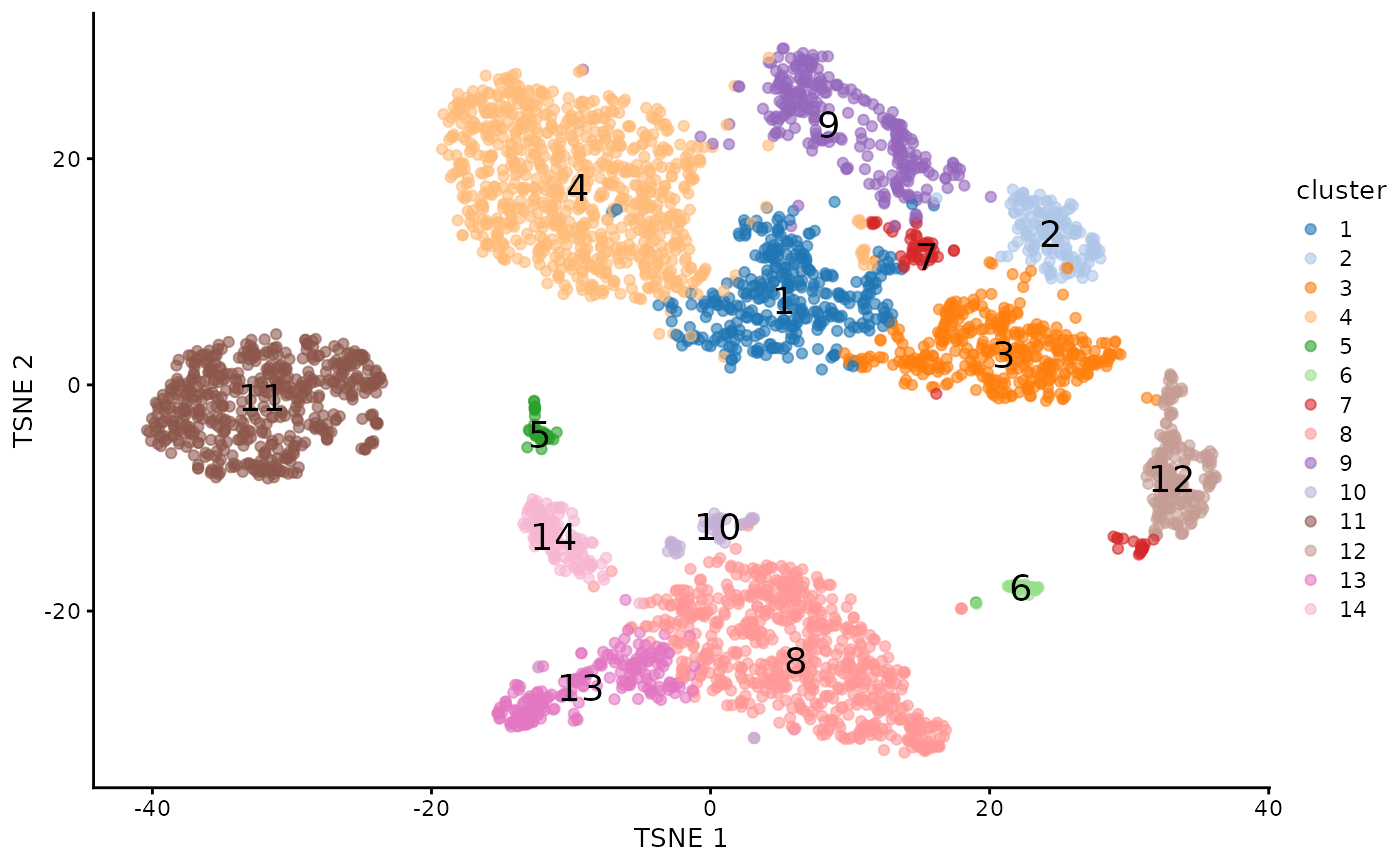
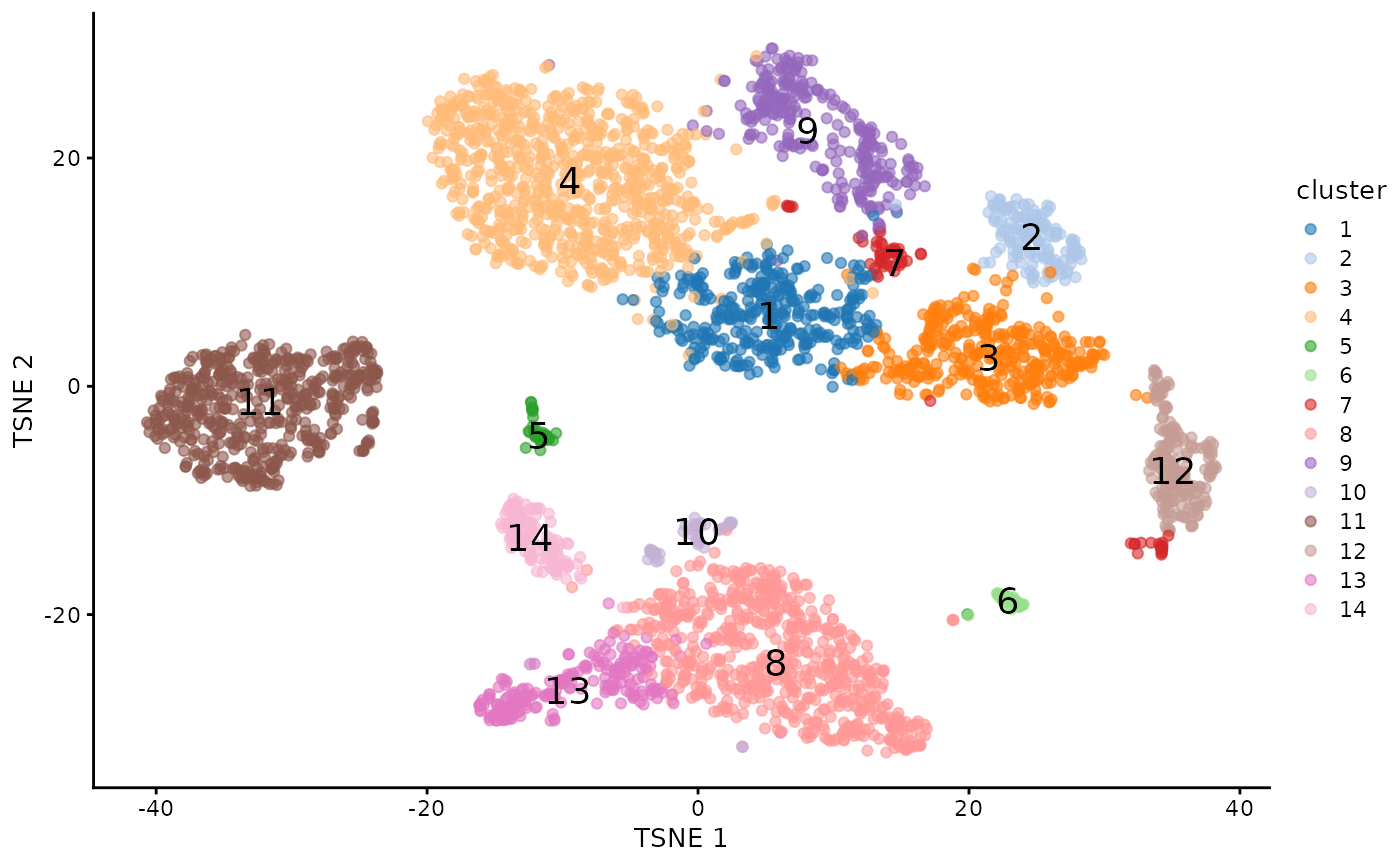
Deploying to gh-pages from  @ f21b81f02a1a6294e463a3f2b536931d4184d22f 🚀

diff --git a/articles/sc_analysis.html b/articles/sc_analysis.html
@@ -143,18 +143,11 @@
 <div id="数据准备" class="section level2">
 <h2 class="hasAnchor">
 <a href="#%E6%95%B0%E6%8D%AE%E5%87%86%E5%A4%87" class="anchor"></a>数据准备</h2>
-<p>下载10x PBMC4k数据并读取。</p>
+<p>读取10xPBMC4k数据。</p>
 <div class="sourceCode" id="cb1"><pre class="downlit sourceCode r">
 <code class="sourceCode R"><span class="co">#--- loading ---#</span>
-<span class="kw"><a href="https://rdrr.io/r/base/library.html">library</a></span><span class="op">(</span><span class="va">BiocFileCache</span><span class="op">)</span></code></pre></div>
-<pre><code>## Loading required package: dbplyr</code></pre>
-<div class="sourceCode" id="cb3"><pre class="downlit sourceCode r">
-<code class="sourceCode R"><span class="va">bfc</span> <span class="op">&lt;-</span> <span class="fu"><a href="https://rdrr.io/pkg/BiocFileCache/man/BiocFileCache-class.html">BiocFileCache</a></span><span class="op">(</span><span class="st">"raw_data"</span>, ask <span class="op">=</span> <span class="cn">FALSE</span><span class="op">)</span>
-<span class="va">raw.path</span> <span class="op">&lt;-</span> <span class="fu"><a href="https://rdrr.io/pkg/BiocFileCache/man/BiocFileCache-class.html">bfcrpath</a></span><span class="op">(</span><span class="va">bfc</span>, <span class="fu"><a href="https://rdrr.io/r/base/file.path.html">file.path</a></span><span class="op">(</span><span class="st">"http://cf.10xgenomics.com/samples"</span>,
-    <span class="st">"cell-exp/2.1.0/pbmc4k/pbmc4k_raw_gene_bc_matrices.tar.gz"</span><span class="op">)</span><span class="op">)</span></code></pre></div>
-<pre><code>## adding rname 'http://cf.10xgenomics.com/samples/cell-exp/2.1.0/pbmc4k/pbmc4k_raw_gene_bc_matrices.tar.gz'</code></pre>
-<div class="sourceCode" id="cb5"><pre class="downlit sourceCode r">
-<code class="sourceCode R"><span class="fu"><a href="https://rdrr.io/r/utils/untar.html">untar</a></span><span class="op">(</span><span class="va">raw.path</span>, exdir<span class="op">=</span><span class="fu"><a href="https://rdrr.io/r/base/file.path.html">file.path</a></span><span class="op">(</span><span class="fu"><a href="https://rdrr.io/r/base/tempfile.html">tempdir</a></span><span class="op">(</span><span class="op">)</span>, <span class="st">"pbmc4k"</span><span class="op">)</span><span class="op">)</span>
+<span class="fu">R.utils</span><span class="fu">::</span><span class="fu"><a href="https://rdrr.io/pkg/R.utils/man/compressFile.html">gunzip</a></span><span class="op">(</span><span class="fu"><a href="https://rdrr.io/r/base/system.file.html">system.file</a></span><span class="op">(</span><span class="st">"extdata"</span>, <span class="st">"pbmc4k_raw_gene_bc_matrices.tar.gz"</span>, package <span class="op">=</span> <span class="st">"zhejiang2020"</span><span class="op">)</span>,destname <span class="op">=</span><span class="st">"./pbmc4k.tar"</span><span class="op">)</span>
+<span class="fu">utils</span><span class="fu">::</span><span class="fu"><a href="https://rdrr.io/r/utils/untar.html">untar</a></span><span class="op">(</span><span class="st">"pbmc4k.tar"</span>,exdir <span class="op">=</span> <span class="st">"."</span><span class="op">)</span>
 
 <span class="kw"><a href="https://rdrr.io/r/base/library.html">library</a></span><span class="op">(</span><span class="va">DropletUtils</span><span class="op">)</span></code></pre></div>
 <pre><code>## Loading required package: SingleCellExperiment</code></pre>
@@ -224,24 +217,24 @@
 <pre><code>## The following objects are masked from 'package:matrixStats':
 ## 
 ##     anyMissing, rowMedians</code></pre>
-<div class="sourceCode" id="cb30"><pre class="downlit sourceCode r">
-<code class="sourceCode R"><span class="va">fname</span> <span class="op">&lt;-</span> <span class="fu"><a href="https://rdrr.io/r/base/file.path.html">file.path</a></span><span class="op">(</span><span class="fu"><a href="https://rdrr.io/r/base/tempfile.html">tempdir</a></span><span class="op">(</span><span class="op">)</span>, <span class="st">"pbmc4k/raw_gene_bc_matrices/GRCh38"</span><span class="op">)</span>
+<div class="sourceCode" id="cb26"><pre class="downlit sourceCode r">
+<code class="sourceCode R"><span class="va">fname</span> <span class="op">&lt;-</span> <span class="st">"raw_gene_bc_matrices/GRCh38"</span>
 <span class="va">sce.pbmc</span> <span class="op">&lt;-</span> <span class="fu"><a href="https://rdrr.io/pkg/DropletUtils/man/read10xCounts.html">read10xCounts</a></span><span class="op">(</span><span class="va">fname</span>, col.names<span class="op">=</span><span class="cn">TRUE</span><span class="op">)</span></code></pre></div>
 <div id="质量控制" class="section level3">
 <h3 class="hasAnchor">
 <a href="#%E8%B4%A8%E9%87%8F%E6%8E%A7%E5%88%B6" class="anchor"></a>质量控制。</h3>
 <p>由于10x 技术会使得外部RNA，也就是不包含微滴的里的细胞被同时测序。在分析之前，我们需要确保得到的barcode数据都相对应活细胞。 这里，我们使用<code>emptyDrops</code>来筛选“真”细胞。</p>
-<div class="sourceCode" id="cb31"><pre class="downlit sourceCode r">
+<div class="sourceCode" id="cb27"><pre class="downlit sourceCode r">
 <code class="sourceCode R"><span class="co">#--- cell-detection ---#</span>
 <span class="fu"><a href="https://rdrr.io/r/base/Random.html">set.seed</a></span><span class="op">(</span><span class="fl">100</span><span class="op">)</span>
 <span class="va">e.out</span> <span class="op">&lt;-</span> <span class="fu"><a href="https://rdrr.io/pkg/DropletUtils/man/emptyDrops.html">emptyDrops</a></span><span class="op">(</span><span class="fu">counts</span><span class="op">(</span><span class="va">sce.pbmc</span><span class="op">)</span><span class="op">)</span>
 <span class="va">sce.pbmc</span> <span class="op">&lt;-</span> <span class="va">sce.pbmc</span><span class="op">[</span>,<span class="fu"><a href="https://rdrr.io/r/base/which.html">which</a></span><span class="op">(</span><span class="va">e.out</span><span class="op">$</span><span class="va">FDR</span> <span class="op">&lt;=</span> <span class="fl">0.001</span><span class="op">)</span><span class="op">]</span></code></pre></div>
 <p>对于得到的基因，根据gene ID 进行基因注释，得到基因名，并且知道其所在染色体（用于之后的细胞质量控制）。</p>
-<div class="sourceCode" id="cb32"><pre class="downlit sourceCode r">
+<div class="sourceCode" id="cb28"><pre class="downlit sourceCode r">
 <code class="sourceCode R"><span class="co">#--- gene-annotation ---#</span>
 <span class="kw"><a href="https://rdrr.io/r/base/library.html">library</a></span><span class="op">(</span><span class="va"><a href="http://bioconductor.org/packages/scater/">scater</a></span><span class="op">)</span></code></pre></div>
 <pre><code>## Loading required package: ggplot2</code></pre>
-<div class="sourceCode" id="cb34"><pre class="downlit sourceCode r">
+<div class="sourceCode" id="cb30"><pre class="downlit sourceCode r">
 <code class="sourceCode R"><span class="fu"><a href="https://rdrr.io/r/base/colnames.html">rownames</a></span><span class="op">(</span><span class="va">sce.pbmc</span><span class="op">)</span> <span class="op">&lt;-</span> <span class="fu"><a href="https://rdrr.io/pkg/scuttle/man/uniquifyFeatureNames.html">uniquifyFeatureNames</a></span><span class="op">(</span>
     <span class="fu">rowData</span><span class="op">(</span><span class="va">sce.pbmc</span><span class="op">)</span><span class="op">$</span><span class="va">ID</span>, <span class="fu">rowData</span><span class="op">(</span><span class="va">sce.pbmc</span><span class="op">)</span><span class="op">$</span><span class="va">Symbol</span><span class="op">)</span>
 
@@ -255,23 +248,23 @@
 <pre><code>## The following object is masked from 'package:stats':
 ## 
 ##     filter</code></pre>
-<div class="sourceCode" id="cb41"><pre class="downlit sourceCode r">
+<div class="sourceCode" id="cb37"><pre class="downlit sourceCode r">
 <code class="sourceCode R"><span class="va">location</span> <span class="op">&lt;-</span> <span class="fu">mapIds</span><span class="op">(</span><span class="va">EnsDb.Hsapiens.v86</span>, keys<span class="op">=</span><span class="fu">rowData</span><span class="op">(</span><span class="va">sce.pbmc</span><span class="op">)</span><span class="op">$</span><span class="va">ID</span>, 
     column<span class="op">=</span><span class="st">"SEQNAME"</span>, keytype<span class="op">=</span><span class="st">"GENEID"</span><span class="op">)</span></code></pre></div>
 <pre><code>## Warning: Unable to map 144 of 33694 requested IDs.</code></pre>
-<div class="sourceCode" id="cb43"><pre class="downlit sourceCode r">
+<div class="sourceCode" id="cb39"><pre class="downlit sourceCode r">
 <code class="sourceCode R"><span class="va">unfiltered</span> <span class="op">&lt;-</span> <span class="va">sce.pbmc</span></code></pre></div>
 <p>这里，我们认为线粒体基因表达量高的barcode对应细胞质mRNA已经流出的破损细胞。并用这个指标来进行筛查过滤。</p>
-<div class="sourceCode" id="cb44"><pre class="downlit sourceCode r">
+<div class="sourceCode" id="cb40"><pre class="downlit sourceCode r">
 <code class="sourceCode R"><span class="co">#--- quality-control ---#</span>
 <span class="va">stats</span> <span class="op">&lt;-</span> <span class="fu"><a href="https://rdrr.io/pkg/scuttle/man/perCellQCMetrics.html">perCellQCMetrics</a></span><span class="op">(</span><span class="va">sce.pbmc</span>, subsets<span class="op">=</span><span class="fu"><a href="https://rdrr.io/r/base/list.html">list</a></span><span class="op">(</span>Mito<span class="op">=</span><span class="fu"><a href="https://rdrr.io/r/base/which.html">which</a></span><span class="op">(</span><span class="va">location</span><span class="op">==</span><span class="st">"MT"</span><span class="op">)</span><span class="op">)</span><span class="op">)</span>
 <span class="va">high.mito</span> <span class="op">&lt;-</span> <span class="fu"><a href="https://rdrr.io/pkg/scuttle/man/isOutlier.html">isOutlier</a></span><span class="op">(</span><span class="va">stats</span><span class="op">$</span><span class="va">subsets_Mito_percent</span>, type<span class="op">=</span><span class="st">"higher"</span><span class="op">)</span>
 <span class="va">sce.pbmc</span> <span class="op">&lt;-</span> <span class="va">sce.pbmc</span><span class="op">[</span>,<span class="op">!</span><span class="va">high.mito</span><span class="op">]</span></code></pre></div>
-<div class="sourceCode" id="cb45"><pre class="downlit sourceCode r">
+<div class="sourceCode" id="cb41"><pre class="downlit sourceCode r">
 <code class="sourceCode R"><span class="fu"><a href="https://rdrr.io/r/base/summary.html">summary</a></span><span class="op">(</span><span class="va">high.mito</span><span class="op">)</span></code></pre></div>
 <pre><code>##    Mode   FALSE    TRUE 
 ## logical    3985     315</code></pre>
-<div class="sourceCode" id="cb47"><pre class="downlit sourceCode r">
+<div class="sourceCode" id="cb43"><pre class="downlit sourceCode r">
 <code class="sourceCode R"><span class="fu">colData</span><span class="op">(</span><span class="va">unfiltered</span><span class="op">)</span> <span class="op">&lt;-</span> <span class="fu"><a href="https://rdrr.io/r/base/cbind.html">cbind</a></span><span class="op">(</span><span class="fu">colData</span><span class="op">(</span><span class="va">unfiltered</span><span class="op">)</span>, <span class="va">stats</span><span class="op">)</span>
 <span class="va">unfiltered</span><span class="op">$</span><span class="va">discard</span> <span class="op">&lt;-</span> <span class="va">high.mito</span>
 
@@ -285,7 +278,7 @@
     ncol<span class="op">=</span><span class="fl">2</span>
 <span class="op">)</span></code></pre></div>
 <p><img src="sc_analysis_files/figure-html/unnamed-chunk-7-1.png" width="700"></p>
-<div class="sourceCode" id="cb48"><pre class="downlit sourceCode r">
+<div class="sourceCode" id="cb44"><pre class="downlit sourceCode r">
 <code class="sourceCode R"><span class="fu"><a href="https://rdrr.io/pkg/scater/man/plotColData.html">plotColData</a></span><span class="op">(</span><span class="va">unfiltered</span>, x<span class="op">=</span><span class="st">"sum"</span>, y<span class="op">=</span><span class="st">"subsets_Mito_percent"</span>,
     colour_by<span class="op">=</span><span class="st">"discard"</span><span class="op">)</span> <span class="op">+</span> <span class="fu">scale_x_log10</span><span class="op">(</span><span class="op">)</span></code></pre></div>
 <p><img src="sc_analysis_files/figure-html/unnamed-chunk-8-1.png" width="700"></p>
@@ -294,14 +287,14 @@
 <h3 class="hasAnchor">
 <a href="#%E6%95%B0%E6%8D%AE%E6%A0%87%E5%87%86%E5%8C%96" class="anchor"></a>数据标准化</h3>
 <p>由于在mRNA分子的捕获，逆转录，测序过程中存在一定的技术误差，相同细胞的计数深度可能不相同。我们需要在进行细胞之间的比对之前，先尽可能的排除采样效应。进行数据标准化，使得细胞之间存在可比性。这里我们使用<code>scran</code>(Lun et al,2016a)，一种允许更多细胞异质性的方法。</p>
-<div class="sourceCode" id="cb49"><pre class="downlit sourceCode r">
+<div class="sourceCode" id="cb45"><pre class="downlit sourceCode r">
 <code class="sourceCode R"><span class="co">#--- normalization ---#</span>
 <span class="kw"><a href="https://rdrr.io/r/base/library.html">library</a></span><span class="op">(</span><span class="va">scran</span><span class="op">)</span>
 <span class="fu"><a href="https://rdrr.io/r/base/Random.html">set.seed</a></span><span class="op">(</span><span class="fl">1000</span><span class="op">)</span>
 <span class="va">clusters</span> <span class="op">&lt;-</span> <span class="fu"><a href="https://rdrr.io/pkg/scran/man/quickCluster.html">quickCluster</a></span><span class="op">(</span><span class="va">sce.pbmc</span><span class="op">)</span>
 <span class="va">sce.pbmc</span> <span class="op">&lt;-</span> <span class="fu"><a href="https://rdrr.io/pkg/scran/man/computeSumFactors.html">computeSumFactors</a></span><span class="op">(</span><span class="va">sce.pbmc</span>, cluster<span class="op">=</span><span class="va">clusters</span><span class="op">)</span>
 <span class="va">sce.pbmc</span> <span class="op">&lt;-</span> <span class="fu"><a href="https://rdrr.io/pkg/scuttle/man/logNormCounts.html">logNormCounts</a></span><span class="op">(</span><span class="va">sce.pbmc</span><span class="op">)</span></code></pre></div>
-<div class="sourceCode" id="cb50"><pre class="downlit sourceCode r">
+<div class="sourceCode" id="cb46"><pre class="downlit sourceCode r">
 <code class="sourceCode R"><span class="fu"><a href="https://rdrr.io/r/base/summary.html">summary</a></span><span class="op">(</span><span class="fu">sizeFactors</span><span class="op">(</span><span class="va">sce.pbmc</span><span class="op">)</span><span class="op">)</span></code></pre></div>
 <pre><code>##     Min.  1st Qu.   Median     Mean  3rd Qu.     Max. 
 ##  0.00749  0.71207  0.87490  1.00000  1.09900 12.25412</code></pre>
@@ -310,19 +303,19 @@
 <h3 class="hasAnchor">
 <a href="#%E7%89%B9%E5%BE%81%E9%80%89%E6%8B%A9" class="anchor"></a>特征选择</h3>
 <p>为了减轻下游分析工具的计算负担，减少数据中的噪声，我们需要先进行特征选择。</p>
-<div class="sourceCode" id="cb52"><pre class="downlit sourceCode r">
+<div class="sourceCode" id="cb48"><pre class="downlit sourceCode r">
 <code class="sourceCode R"><span class="co">#--- variance-modelling ---#</span>
 <span class="fu"><a href="https://rdrr.io/r/base/Random.html">set.seed</a></span><span class="op">(</span><span class="fl">1001</span><span class="op">)</span>
 <span class="va">dec.pbmc</span> <span class="op">&lt;-</span> <span class="fu"><a href="https://rdrr.io/pkg/scran/man/modelGeneVarByPoisson.html">modelGeneVarByPoisson</a></span><span class="op">(</span><span class="va">sce.pbmc</span><span class="op">)</span>
 <span class="va">top.pbmc</span> <span class="op">&lt;-</span> <span class="fu"><a href="https://rdrr.io/pkg/scran/man/getTopHVGs.html">getTopHVGs</a></span><span class="op">(</span><span class="va">dec.pbmc</span>, prop<span class="op">=</span><span class="fl">0.1</span><span class="op">)</span></code></pre></div>
-<div class="sourceCode" id="cb53"><pre class="downlit sourceCode r">
+<div class="sourceCode" id="cb49"><pre class="downlit sourceCode r">
 <code class="sourceCode R"><span class="fu"><a href="https://rdrr.io/r/graphics/plot.default.html">plot</a></span><span class="op">(</span><span class="va">dec.pbmc</span><span class="op">$</span><span class="va">mean</span>, <span class="va">dec.pbmc</span><span class="op">$</span><span class="va">total</span>, pch<span class="op">=</span><span class="fl">16</span>, cex<span class="op">=</span><span class="fl">0.5</span>,
     xlab<span class="op">=</span><span class="st">"Mean of log-expression"</span>, ylab<span class="op">=</span><span class="st">"Variance of log-expression"</span><span class="op">)</span>
 <span class="va">curfit</span> <span class="op">&lt;-</span> <span class="fu">metadata</span><span class="op">(</span><span class="va">dec.pbmc</span><span class="op">)</span>
 <span class="fu"><a href="https://rdrr.io/r/graphics/curve.html">curve</a></span><span class="op">(</span><span class="va">curfit</span><span class="op">$</span><span class="fu">trend</span><span class="op">(</span><span class="va">x</span><span class="op">)</span>, col<span class="op">=</span><span class="st">'dodgerblue'</span>, add<span class="op">=</span><span class="cn">TRUE</span>, lwd<span class="op">=</span><span class="fl">2</span><span class="op">)</span></code></pre></div>
 <p><img src="sc_analysis_files/figure-html/unnamed-chunk-12-1.png" width="700"></p>
 <p>特征选择后，单细胞表达矩阵的维数可以通过专门的降维算法进一步降低。使得数据可以直观可视化，并且将数据简化为基本组成部分。</p>
-<div class="sourceCode" id="cb54"><pre class="downlit sourceCode r">
+<div class="sourceCode" id="cb50"><pre class="downlit sourceCode r">
 <code class="sourceCode R"><span class="co">#--- dimensionality-reduction ---#</span>
 <span class="fu"><a href="https://rdrr.io/r/base/Random.html">set.seed</a></span><span class="op">(</span><span class="fl">10000</span><span class="op">)</span>
 <span class="va">sce.pbmc</span> <span class="op">&lt;-</span> <span class="fu"><a href="https://rdrr.io/pkg/scran/man/denoisePCA.html">denoisePCA</a></span><span class="op">(</span><span class="va">sce.pbmc</span>, subset.row<span class="op">=</span><span class="va">top.pbmc</span>, technical<span class="op">=</span><span class="va">dec.pbmc</span><span class="op">)</span>
@@ -332,7 +325,7 @@
 
 <span class="fu"><a href="https://rdrr.io/r/base/Random.html">set.seed</a></span><span class="op">(</span><span class="fl">1000000</span><span class="op">)</span>
 <span class="va">sce.pbmc</span> <span class="op">&lt;-</span> <span class="fu"><a href="https://rdrr.io/pkg/scater/man/runUMAP.html">runUMAP</a></span><span class="op">(</span><span class="va">sce.pbmc</span>, dimred<span class="op">=</span><span class="st">"PCA"</span><span class="op">)</span></code></pre></div>
-<div class="sourceCode" id="cb55"><pre class="downlit sourceCode r">
+<div class="sourceCode" id="cb51"><pre class="downlit sourceCode r">
 <code class="sourceCode R"><span class="fu"><a href="https://rdrr.io/r/base/nrow.html">ncol</a></span><span class="op">(</span><span class="fu">reducedDim</span><span class="op">(</span><span class="va">sce.pbmc</span>, <span class="st">"PCA"</span><span class="op">)</span><span class="op">)</span></code></pre></div>
 <pre><code>## [1] 9</code></pre>
 </div>
@@ -344,7 +337,7 @@
 <h3 class="hasAnchor">
 <a href="#%E4%BD%BF%E7%94%A8louvain%E7%AE%97%E6%B3%95%E8%BF%9B%E8%A1%8C%E8%81%9A%E7%B1%BB" class="anchor"></a>使用<code>louvain</code>算法进行聚类</h3>
 <p><code>louvain</code>算法是一个基于图的聚类算法，我们首先构建Shared Nearest Neighbor（SNN）图，输入为使用主成分分析（PCA）降维后得到的矩阵。 在得到SNN图<code>g</code>之后，我们使用它作为<code>louvain</code>算法的输入。</p>
-<div class="sourceCode" id="cb57"><pre class="downlit sourceCode r">
+<div class="sourceCode" id="cb53"><pre class="downlit sourceCode r">
 <code class="sourceCode R"><span class="va">g</span> <span class="op">&lt;-</span> <span class="fu"><a href="https://rdrr.io/pkg/scran/man/buildSNNGraph.html">buildSNNGraph</a></span><span class="op">(</span><span class="va">sce.pbmc</span>, k<span class="op">=</span><span class="fl">10</span>, use.dimred <span class="op">=</span> <span class="st">'PCA'</span><span class="op">)</span>
 <span class="va">clust</span> <span class="op">&lt;-</span> <span class="fu">igraph</span><span class="fu">::</span><span class="fu"><a href="https://rdrr.io/pkg/igraph/man/cluster_louvain.html">cluster_louvain</a></span><span class="op">(</span><span class="va">g</span><span class="op">)</span><span class="op">$</span><span class="va">membership</span>
 
@@ -354,11 +347,11 @@
 ##   1   2   3   4   5   6   7   8   9  10  11  12  13  14 
 ## 353 152 376 857  48  46  68 661 287  53 541 198 219 126</code></pre>
 <p>使用tSNE对聚类进行可视化。</p>
-<div class="sourceCode" id="cb59"><pre class="downlit sourceCode r">
+<div class="sourceCode" id="cb55"><pre class="downlit sourceCode r">
 <code class="sourceCode R"><span class="fu"><a href="https://rdrr.io/pkg/scater/man/plot_reddim.html">plotTSNE</a></span><span class="op">(</span><span class="va">sce.pbmc</span>, colour_by<span class="op">=</span><span class="st">"cluster"</span>,text_by<span class="op">=</span><span class="st">"cluster"</span><span class="op">)</span></code></pre></div>
 <p><img src="sc_analysis_files/figure-html/unnamed-chunk-16-1.png" width="700"></p>
 <p>使用UMAP对聚类进行可视化。</p>
-<div class="sourceCode" id="cb60"><pre class="downlit sourceCode r">
+<div class="sourceCode" id="cb56"><pre class="downlit sourceCode r">
 <code class="sourceCode R"><span class="fu"><a href="https://rdrr.io/pkg/scater/man/plot_reddim.html">plotUMAP</a></span><span class="op">(</span><span class="va">sce.pbmc</span>, colour_by<span class="op">=</span><span class="st">"cluster"</span>,text_by<span class="op">=</span><span class="st">"cluster"</span><span class="op">)</span></code></pre></div>
 <p><img src="sc_analysis_files/figure-html/unnamed-chunk-17-1.png" width="700"></p>
 </div>
@@ -366,13 +359,13 @@
 <h3 class="hasAnchor">
 <a href="#%E5%AF%BB%E6%89%BE%E8%81%9A%E7%B1%BB%E7%89%B9%E5%BC%82%E8%A1%A8%E8%BE%BE%E5%9F%BA%E5%9B%A0" class="anchor"></a>寻找聚类特异表达基因</h3>
 <p>在获得了聚类之后，我们想要知道每个聚类都哪些高表达的基因，这些基因往往是能区分不同细胞类型的marker gene，也可以帮助我们了解不同聚类的生物学功能。</p>
-<div class="sourceCode" id="cb61"><pre class="downlit sourceCode r">
+<div class="sourceCode" id="cb57"><pre class="downlit sourceCode r">
 <code class="sourceCode R"><span class="kw"><a href="https://rdrr.io/r/base/library.html">library</a></span><span class="op">(</span><span class="va">RColorBrewer</span><span class="op">)</span></code></pre></div>
 <p>这里，我们通过比对某一cluster和其他所有cluster的表达来找到marker gene， 并且只挑选显示上调基因。</p>
-<div class="sourceCode" id="cb62"><pre class="downlit sourceCode r">
+<div class="sourceCode" id="cb58"><pre class="downlit sourceCode r">
 <code class="sourceCode R"><span class="va">markers.pbmc</span> <span class="op">&lt;-</span> <span class="fu"><a href="https://rdrr.io/pkg/scran/man/findMarkers.html">findMarkers</a></span><span class="op">(</span><span class="va">sce.pbmc</span>, <span class="va">sce.pbmc</span><span class="op">$</span><span class="va">cluster</span>, 
     pval.type<span class="op">=</span><span class="st">"all"</span>, direction<span class="op">=</span><span class="st">"up"</span><span class="op">)</span></code></pre></div>
-<div class="sourceCode" id="cb63"><pre class="downlit sourceCode r">
+<div class="sourceCode" id="cb59"><pre class="downlit sourceCode r">
 <code class="sourceCode R"><span class="va">markers.pbmc</span><span class="op">[[</span><span class="fl">1</span><span class="op">]</span><span class="op">]</span><span class="op">[</span><span class="fu"><a href="https://rdrr.io/r/base/order.html">order</a></span><span class="op">(</span><span class="va">markers.pbmc</span><span class="op">[[</span><span class="fl">1</span><span class="op">]</span><span class="op">]</span><span class="op">$</span><span class="va">FDR</span><span class="op">)</span>,<span class="op">]</span></code></pre></div>
 <pre><code>## DataFrame with 33694 rows and 16 columns
 ##                   p.value       FDR summary.logFC    logFC.2     logFC.3
@@ -415,7 +408,7 @@
 ## TYROBP        -0.0414366 -3.077268 -0.0436713 -2.3635000 -3.65373554 -2.3592519
 ## CD79A          0.0118844 -0.347398 -2.8895764  0.0677690 -0.00864517 -0.0389843</code></pre>
 <p>查看marker gene。</p>
-<div class="sourceCode" id="cb65"><pre class="downlit sourceCode r">
+<div class="sourceCode" id="cb61"><pre class="downlit sourceCode r">
 <code class="sourceCode R"><span class="co"># NOTE: this is not efficient for large iteration.</span>
 <span class="va">marker_genes</span> <span class="op">=</span> <span class="fu"><a href="https://rdrr.io/r/base/c.html">c</a></span><span class="op">(</span><span class="op">)</span>
 
@@ -441,14 +434,14 @@
 ## [61] "LST1"         "IFITM3"       "AIF1"         "MS4A7"        "SERPINA1"    
 ## [66] "HLA-DRB1"     "HLA-DQA1"     "HLA-DPB1"     "HLA-DRA"      "HLA-DPA1"</code></pre>
 <p>查看特定基因在不同cluster的表达量。</p>
-<div class="sourceCode" id="cb67"><pre class="downlit sourceCode r">
+<div class="sourceCode" id="cb63"><pre class="downlit sourceCode r">
 <code class="sourceCode R"><span class="fu"><a href="https://rdrr.io/pkg/scater/man/plotExpression.html">plotExpression</a></span><span class="op">(</span><span class="va">sce.pbmc</span>, x<span class="op">=</span><span class="st">"cluster"</span>,features<span class="op">=</span><span class="st">"MS4A1"</span><span class="op">)</span></code></pre></div>
 <p><img src="sc_analysis_files/figure-html/unnamed-chunk-22-1.png" width="700"></p>
-<div class="sourceCode" id="cb68"><pre class="downlit sourceCode r">
+<div class="sourceCode" id="cb64"><pre class="downlit sourceCode r">
 <code class="sourceCode R"><span class="fu"><a href="https://rdrr.io/pkg/scater/man/plotExpression.html">plotExpression</a></span><span class="op">(</span><span class="va">sce.pbmc</span>, x<span class="op">=</span><span class="st">"cluster"</span>,features<span class="op">=</span><span class="st">"GZMK"</span><span class="op">)</span></code></pre></div>
 <p><img src="sc_analysis_files/figure-html/unnamed-chunk-23-1.png" width="700"></p>
 <p>使用热图对marker gene进行可视化。</p>
-<div class="sourceCode" id="cb69"><pre class="downlit sourceCode r">
+<div class="sourceCode" id="cb65"><pre class="downlit sourceCode r">
 <code class="sourceCode R"><span class="va">getPalette</span> <span class="op">=</span> <span class="fu"><a href="https://rdrr.io/r/grDevices/colorRamp.html">colorRampPalette</a></span><span class="op">(</span><span class="fu"><a href="https://rdrr.io/pkg/RColorBrewer/man/ColorBrewer.html">brewer.pal</a></span><span class="op">(</span><span class="fl">9</span>, <span class="st">"Set1"</span><span class="op">)</span><span class="op">)</span>
 <span class="va">anno_df</span> <span class="op">=</span> <span class="fu"><a href="https://rdrr.io/r/base/as.data.frame.html">as.data.frame</a></span><span class="op">(</span><span class="fu">colData</span><span class="op">(</span><span class="va">sce.pbmc</span><span class="op">)</span><span class="op">)</span>
 <span class="va">anno_df</span> <span class="op">=</span> <span class="va">anno_df</span><span class="op">[</span>,<span class="st">"cluster"</span>, drop<span class="op">=</span><span class="cn">FALSE</span><span class="op">]</span>
@@ -479,15 +472,15 @@
 <div id="使用singler进行细胞类型注释" class="section level2">
 <h2 class="hasAnchor">
 <a href="#%E4%BD%BF%E7%94%A8singler%E8%BF%9B%E8%A1%8C%E7%BB%86%E8%83%9E%E7%B1%BB%E5%9E%8B%E6%B3%A8%E9%87%8A" class="anchor"></a>使用<code>singleR</code>进行细胞类型注释</h2>
-<div class="sourceCode" id="cb70"><pre class="downlit sourceCode r">
+<div class="sourceCode" id="cb66"><pre class="downlit sourceCode r">
 <code class="sourceCode R"><span class="kw"><a href="https://rdrr.io/r/base/library.html">library</a></span><span class="op">(</span><span class="va"><a href="https://github.com/LTLA/SingleR">SingleR</a></span><span class="op">)</span></code></pre></div>
 <p>我们选择 BlueprintEncodeData() 来作为参考数据。(Martens and Stunnenberg 2013; The ENCODE Project Consortium 2012)</p>
-<div class="sourceCode" id="cb71"><pre class="downlit sourceCode r">
+<div class="sourceCode" id="cb67"><pre class="downlit sourceCode r">
 <code class="sourceCode R"><span class="va">ref</span> <span class="op">&lt;-</span> <span class="fu"><a href="https://rdrr.io/pkg/SingleR/man/datasets.html">BlueprintEncodeData</a></span><span class="op">(</span><span class="op">)</span></code></pre></div>
 <pre><code>## Warning: 'BlueprintEncodeData' is deprecated.
 ## Use 'celldex::BlueprintEncodeData' instead.
 ## See help("Deprecated")</code></pre>
-<pre><code>## using temporary cache /tmp/RtmpX8IS9r/BiocFileCache</code></pre>
+<pre><code>## using temporary cache /tmp/Rtmp67qi1z/BiocFileCache</code></pre>
 <pre><code>## snapshotDate(): 2020-10-02</code></pre>
 <pre><code>## see ?celldex and browseVignettes('celldex') for documentation</code></pre>
 <pre><code>## downloading 1 resources</code></pre>
@@ -497,7 +490,7 @@
 <pre><code>## downloading 1 resources</code></pre>
 <pre><code>## retrieving 1 resource</code></pre>
 <pre><code>## loading from cache</code></pre>
-<div class="sourceCode" id="cb83"><pre class="downlit sourceCode r">
+<div class="sourceCode" id="cb79"><pre class="downlit sourceCode r">
 <code class="sourceCode R"><span class="va">pred</span> <span class="op">&lt;-</span> <span class="fu"><a href="https://rdrr.io/pkg/SingleR/man/SingleR.html">SingleR</a></span><span class="op">(</span>test<span class="op">=</span><span class="va">sce.pbmc</span>, ref<span class="op">=</span><span class="va">ref</span>, labels<span class="op">=</span><span class="va">ref</span><span class="op">$</span><span class="va">label.main</span><span class="op">)</span>
 <span class="fu"><a href="https://rdrr.io/r/base/table.html">table</a></span><span class="op">(</span><span class="va">pred</span><span class="op">$</span><span class="va">labels</span><span class="op">)</span></code></pre></div>
 <pre><code>## 
@@ -505,11 +498,11 @@
 ##          549          773         1274            1            1            5 
 ##          HSC    Monocytes     NK cells 
 ##           14         1117          251</code></pre>
-<div class="sourceCode" id="cb85"><pre class="downlit sourceCode r">
+<div class="sourceCode" id="cb81"><pre class="downlit sourceCode r">
 <code class="sourceCode R"><span class="fu"><a href="https://rdrr.io/pkg/SingleR/man/plotScoreHeatmap.html">plotScoreHeatmap</a></span><span class="op">(</span><span class="va">pred</span><span class="op">)</span></code></pre></div>
 <p><img src="sc_analysis_files/figure-html/unnamed-chunk-27-1.png" width="700"></p>
 <p>利用每个cluster和对每个细胞计算得到的可能细胞类型画heatmap。</p>
-<div class="sourceCode" id="cb86"><pre class="downlit sourceCode r">
+<div class="sourceCode" id="cb82"><pre class="downlit sourceCode r">
 <code class="sourceCode R"><span class="va">tab</span> <span class="op">&lt;-</span> <span class="fu"><a href="https://rdrr.io/r/base/table.html">table</a></span><span class="op">(</span>Assigned<span class="op">=</span><span class="va">pred</span><span class="op">$</span><span class="va">pruned.labels</span>, Cluster<span class="op">=</span><span class="va">sce.pbmc</span><span class="op">$</span><span class="va">cluster</span><span class="op">)</span>
 
 <span class="co"># Adding a pseudo-count of 10 to avoid strong color jumps with just 1 cell.</span>
